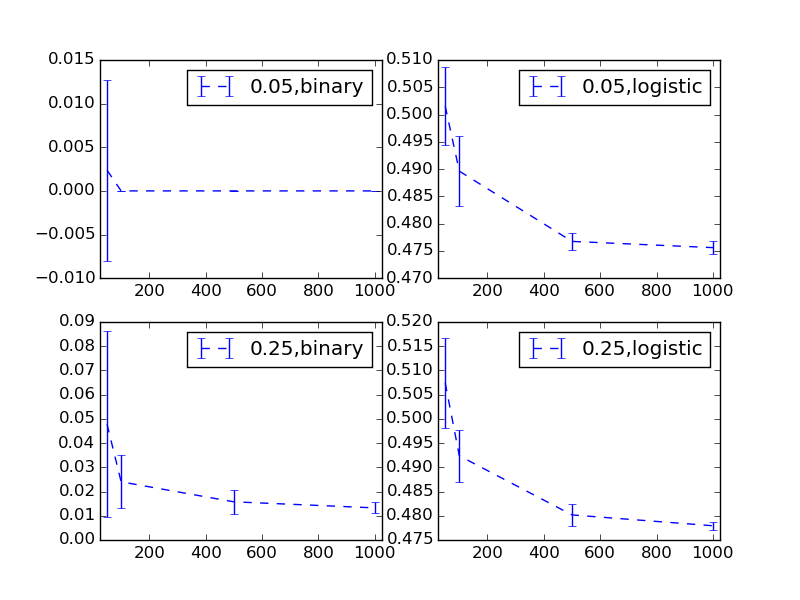
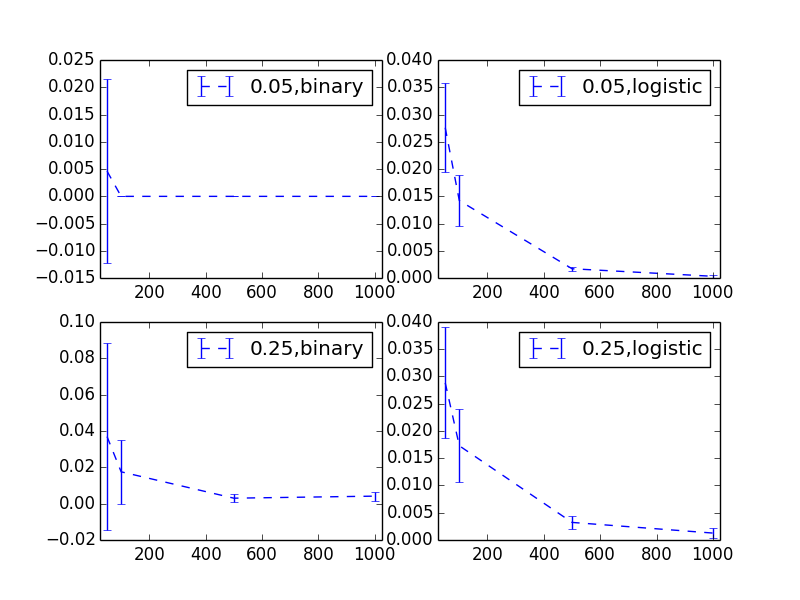
modify to excessive error

diff --git a/cse250hw3.py b/cse250hw3.py
@@ -158,7 +158,7 @@ def test(testx, testy, n, sigma, scenario):
         err0[i] = check(testx, testy, w, 0)
         err1[i] = check(testx, testy, w, 1)
     # return mean and standard deviation of error rates
-    return np.mean(err0), np.std(err0), np.mean(err1), np.std(err1)
+    return np.mean(err0), np.std(err0), min(err0), np.mean(err1), np.std(err1), min(err1)
     
 
 
@@ -181,6 +181,7 @@ def experiment():
     sigma = np.array([0.05, 0.25])
     errorAvg = np.zeros((8, 4))
     errorStd = np.zeros((8, 4))
+    errorMin = np.ones((8, 1))
     idx = 0
     # do experiments on two scenarios: cube and ball:
     for scenario in xrange(1, 3):
@@ -190,8 +191,15 @@ def experiment():
             testx, testy = pointGen(400, sigma[i], scenario)
             # run SGD algorithm on different training size
             for k in xrange(len(n)):
-                errorAvg[idx][k],errorStd[idx][k],errorAvg[idx+1][k],errorStd[idx+1][k]=test(testx, testy, n[k], sigma[i], scenario)
+                errorAvg[idx][k],errorStd[idx][k], tmp1,errorAvg[idx+1][k],errorStd[idx+1][k], tmp2=test(testx, testy, n[k], sigma[i], scenario)
+                if tmp1 < errorMin[idx] : errorMin[idx] = tmp1
+                if tmp2 < errorMin[idx+1] : errorMin[idx+1] = tmp2
             idx += 2
+
+    # calculate excessive error for each case
+    for i in xrange(8):
+        for j in xrange(4):
+            errorAvg[i][j] = errorAvg[i][j] - errorMin[i]
     return errorAvg, errorStd
 
 errorAvg, errorStd = experiment()
